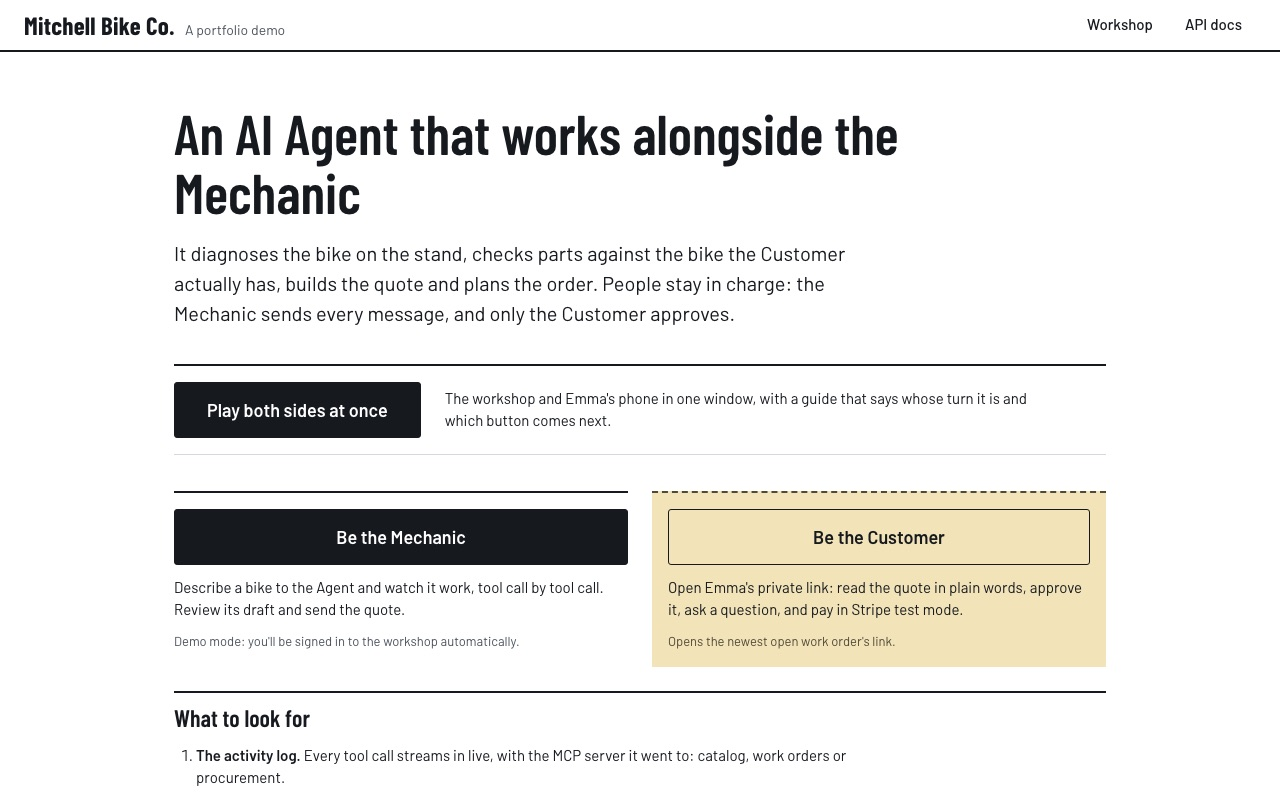
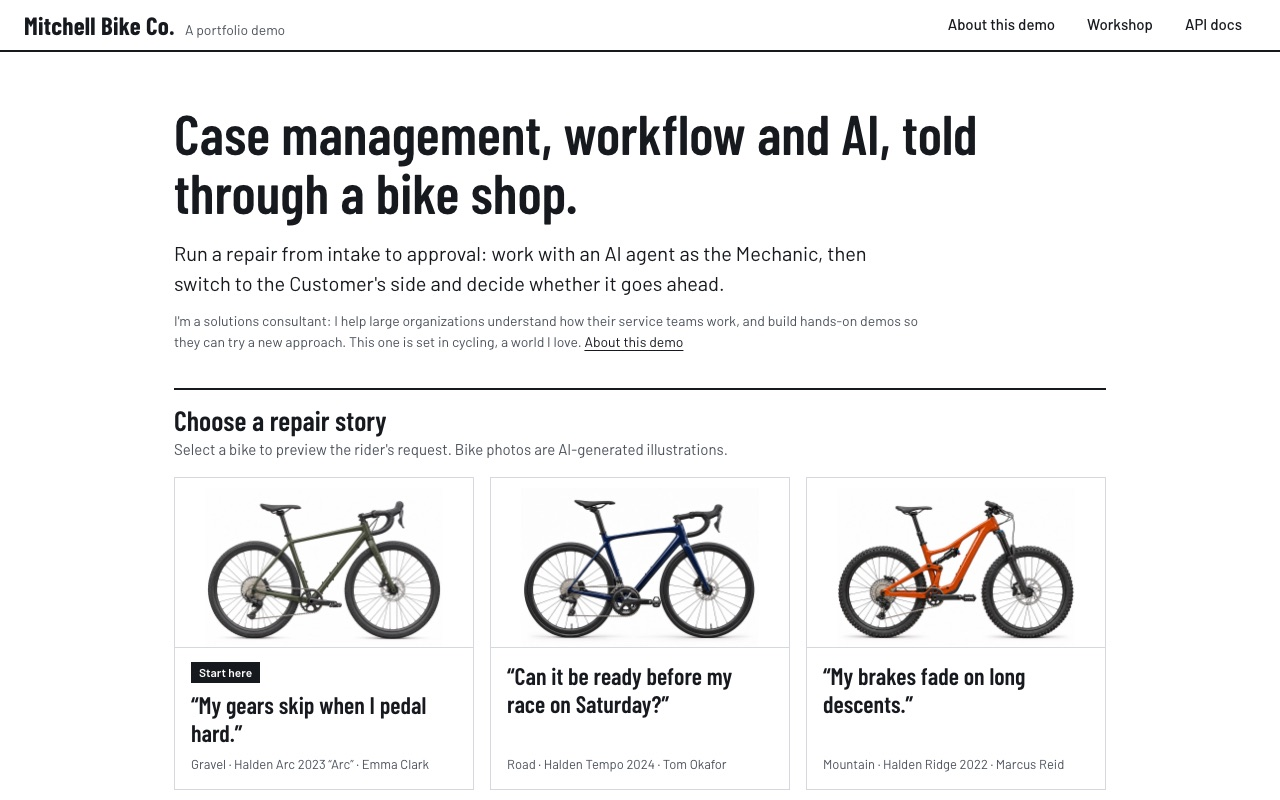
README: retake the front-door screenshot from the live site
The old one showed the front door before the story picker ("An AI Agent
that works alongside the Mechanic", with Be the Mechanic / Be the
Customer). Taken from mitchell-bike-co.fly.dev with headless Chrome at
1280x800, as before.

Changed region(s): [[0.125, 0.3125, 0.875, 1.0], [0.125, 0.125, 0.7812, 0.2812], [0.75, 0.0312, 0.8125, 0.0625]]

diff --git a/README.md b/README.md
@@ -27,7 +27,7 @@ The front door is the starting screen: choose one of six repair stories, preview
 | --- | --- |
 | ![The demo stage: the workshop at full width, Emma's phone opened from the Customer POV tab, and the bottom bar saying whose turn it is.](docs/screenshots/demo-stage.jpg) | ![The Customer's page: the quote in plain words and one obvious action.](docs/screenshots/customer-quote.jpg) |
 | ![A work order's History: the Agent's tool calls, with the shop's two refusals in red (from the scripted `make demo` run).](docs/screenshots/history.jpg) | ![The audit log: every tool call, written by the MCP servers themselves.](docs/screenshots/audit-log.jpg) |
-| ![The front door.](docs/screenshots/front-door.jpg) | |
+| ![The front door: choose one of six repair stories, each also an eval.](docs/screenshots/front-door.jpg) | |
 
 ## My role
 
